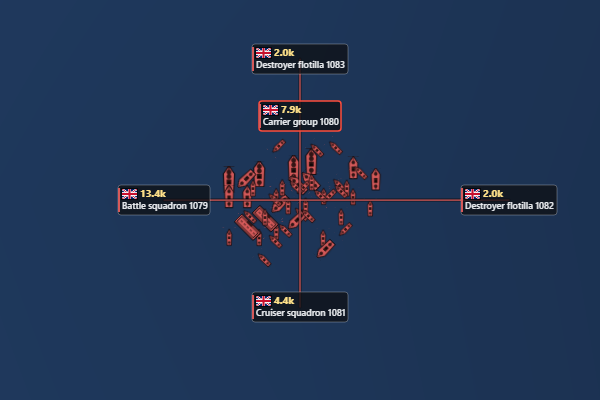
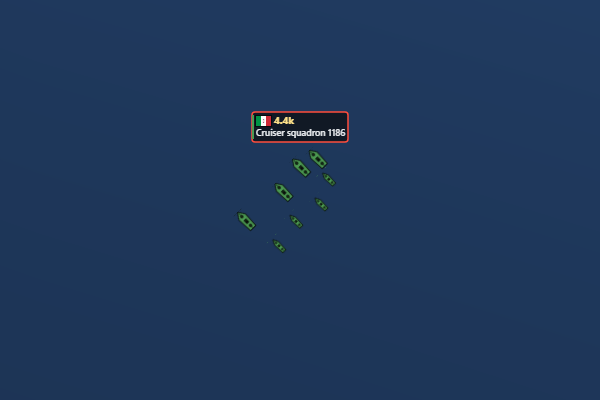
check:review before the critic: shipMarks1938 and wrecksHeld1938 re-aimed (ADR-554)
check:review on 4730f94 was red on four e2e tests, each the same twice.
Two had lost their aim, the rules they hold unchanged:

- shipMarks1938 at 20 m/px measures Italy's and Britain's ships alone.
  Since 7.35d2 France's fleets stand on station with Britain's at seed
  2251's first battle; their dark blue hulls read as the sea to the
  measure (a destroyer's median 6.5 px). Now 19 x 5.5 px, as at a59af6c.
- wrecksHeld1938 waits on hulls.tankCount: since 7.23b hulls.count is
  the fallen's marks too, which came an hour before the first hull.

Claude-Session: https://claude.ai/code/session_012XxorksuoRaQMpeJsmffaQ

Changed region(s): [[0.18, 0.09, 0.93, 0.81]]

diff --git a/tests/e2e/shipMarks1938.spec.ts b/tests/e2e/shipMarks1938.spec.ts
@@ -207,11 +207,14 @@ test('T3: at 20 m/px every class of ship is drawn long and broad enough to read 
     }, f);
     await page.waitForFunction(() => window.__warsim!.view!.subscription?.tier === 3 && window.__warsim!.view!.individualCount > 0, null, { timeout: 15_000 }).catch(() => undefined);
     await page.waitForTimeout(1500);
-    const got = await page.evaluate((classes) => {
+    const got = await page.evaluate(([classes, a, d]) => {
       const v = window.__warsim!.view!;
       const canvas = document.querySelector('canvas')!;
       const gl = canvas.getContext('webgl2')!;
       v.draw(performance.now());
+      // The two sides' ships alone: since 7.35d2 France's fleets stand on station with Britain's,
+      // and its dark blue hulls read as the sea to this measure (a median of 6.5 px for a destroyer).
+      const sides = new Set([...v.formationsOf(a), ...v.formationsOf(d)]);
       const dpr = canvas.width / canvas.clientWidth;
       const cam = v.controller.cam;
       const [vw, vh] = [canvas.clientWidth, canvas.clientHeight];
@@ -226,7 +229,7 @@ test('T3: at 20 m/px every class of ship is drawn long and broad enough to read 
       const out: { cls: string; len: number; beam: number }[] = [];
       for (let j = 0; j < v.individualCount; j++) {
         const e = index.get(v.individualOwner[j]!);
-        if (e === undefined) continue;
+        if (e === undefined || !sides.has(v.elementFormation[e]!)) continue;
         const frame = v.elementFrame(e);
         const cls = Object.keys(classes).find((k) => classes[k] === frame);
         if (!cls) continue;
@@ -249,7 +252,7 @@ test('T3: at 20 m/px every class of ship is drawn long and broad enough to read 
         out.push({ cls, len: 2 * out1(ux, uy), beam: 2 * Math.min(out1(nx, ny), out1(-nx, -ny)) });
       }
       return out;
-    }, classes);
+    }, [classes, id('ITA'), id('ENG')] as const);
     for (const s of got) {
       (len[s.cls] ??= []).push(s.len);
       (beam[s.cls] ??= []).push(s.beam);

diff --git a/tests/e2e/wrecksHeld1938.spec.ts b/tests/e2e/wrecksHeld1938.spec.ts
@@ -32,7 +32,8 @@ test('T3: the hulls of a fight are counted and stay while the game is paused', a
   }, null, { timeout: 15_000 });
   // Both effects give their count to the hook.
   expect(typeof (await page.evaluate(() => window.__warsim!.view!.wrecks.count))).toBe('number');
-  // Hour by hour until hulls lie in the view.
+  // Hour by hour until hulls lie in the view: tanks' hulls, `tankCount` (since PLAN 7.23b `count`
+  // is the marks of the fallen too, which came an hour before the first hull, and none drawn).
   const first = await page.evaluate(async (start) => {
     const v = window.__warsim!.view!;
     for (let h = 1; h <= 12; h++) {
@@ -42,7 +43,7 @@ test('T3: the hulls of a fight are counted and stay while the game is paused', a
         const wait = (): void => (v.lastTick === tick ? done() : void setTimeout(wait, 5));
         wait();
       });
-      if (v.hulls.count > 0) return { hours: h, count: v.hulls.count };
+      if (v.hulls.tankCount > 0) return { hours: h, count: v.hulls.tankCount };
     }
     return null;
   }, node.start);
@@ -52,7 +53,7 @@ test('T3: the hulls of a fight are counted and stay while the game is paused', a
   const later = await page.evaluate(() => {
     const v = window.__warsim!.view!;
     v.drawUnitLayers(performance.now());
-    return { count: v.hulls.count, shown: v.hulls.shown.length };
+    return { count: v.hulls.tankCount, shown: v.hulls.shown.length };
   });
   console.log(`hulls after ${first!.hours} h: ${first!.count}; ${(HULL_LIFE_MS + 2500) / 1000} s later, paused: ${later.count}, ${later.shown} drawn`);
   expect(later.count).toBe(first!.count);

diff --git a/PROGRESS.md b/PROGRESS.md
@@ -20173,3 +20173,18 @@ No rule changed and nothing on screen changed. One task came out of it.
 - **Waits on the user:** none. (Whether the critic runs now on HEAD, before 7.35d3b, is the
   user's to ask; the loop takes 7.35d3b otherwise.)
 - **Next:** PLAN 7.35d3b.
+
+## 2026-10-19 — The critic asked for: `check:review` red, four tests not on knownRed (ADR-554)
+
+- **Asked:** "run the critic". `npm run check:review` on 4730f94: typecheck, lint, build, parity,
+  unit (1,748) and sweep config (18) green; e2e red twice, not on `knownRed.json`: `coast1938`
+  (fine water 14.46 from the sea, < 12), `shipMarks1938` 20 m/px (a destroyer 6.5 px, > 17),
+  `tagsCrowd1938` ("233 over 236" at 12 m/px), `wrecksHeld1938` (0 hulls drawn). Same numbers in
+  the batch and alone: the code, not the machine.
+- **Fixed, the tests' aim:** `shipMarks1938` 20 m/px measures the two sides' ships alone: since
+  7.35d2 France's fleets stand on station with Britain's at seed 2251's first battle, and its dark
+  blue hulls read as the sea to the measure (Italy's destroyers 19 px, the rule's). Now 83
+  destroyers 19 × 5.5 px, cruisers 25 × 8.5, as at a59af6c. `wrecksHeld1938` waits on
+  `hulls.tankCount`: since 7.23b `count` is the fallen's marks too, which came an hour before the
+  first hull; now 2 hulls after 2 h, 2 drawn after 20 s paused. Thresholds unchanged.
+- **Next:** `tagsCrowd1938` and `coast1938` (the code), then `check:review` again, then the critic.
